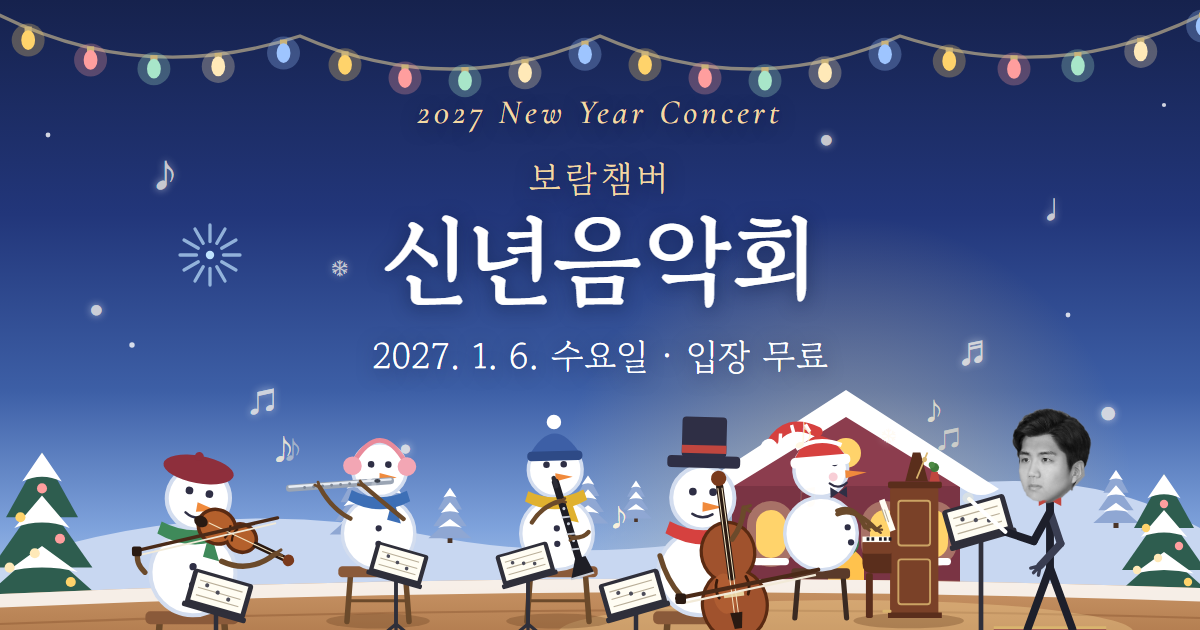
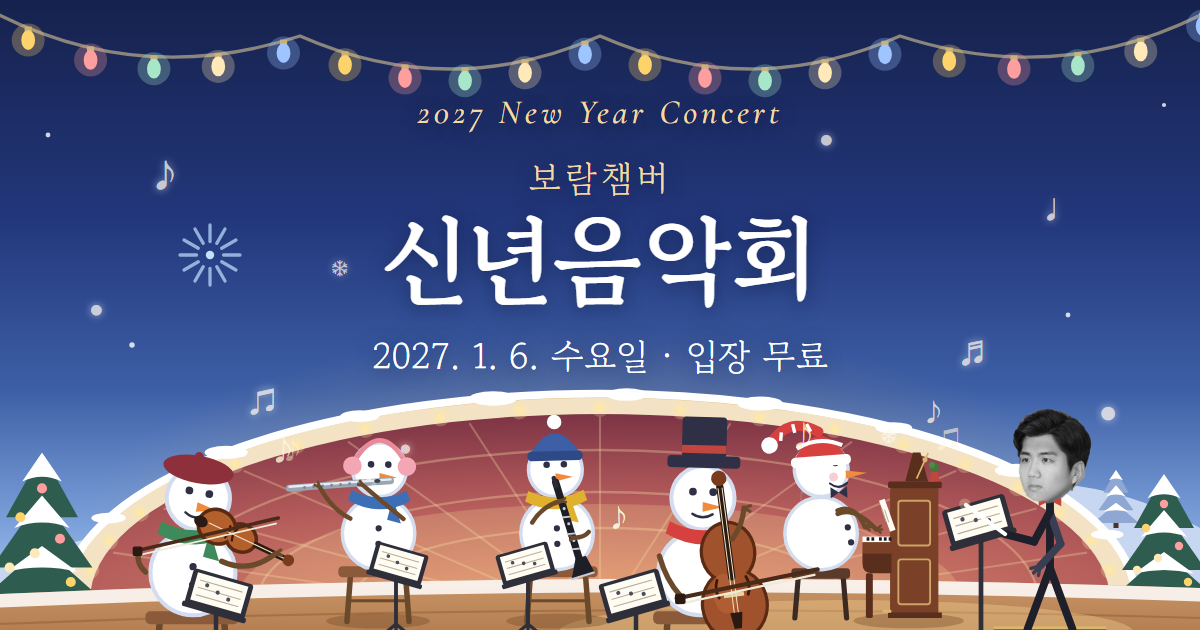
카톡 미리보기 그림 갱신 (공연장 쉘 배경)
og.png 다시 만들고 주소 번호를 ?v=8 로 올림

Changed region(s): [[0.1542, 0.4524, 0.9558, 0.9349], [0.0617, 0.754, 0.1542, 0.9349], [0.555, 0.9349, 0.5858, 0.9651]]

diff --git a/index.html b/index.html
@@ -10,7 +10,7 @@
 <meta property="og:title" content="보람챔버 신년음악회">
 <meta property="og:description" content="2027년 1월 6일(수) · 보람챔버오케스트라가 초대합니다.">
 <meta property="og:url" content="https://boramchamber.github.io/2027-new-year/">
-<meta property="og:image" content="https://boramchamber.github.io/2027-new-year/og.png?v=7">
+<meta property="og:image" content="https://boramchamber.github.io/2027-new-year/og.png?v=8">
 <meta property="og:image:width" content="1200">
 <meta property="og:image:height" content="630">
 <meta name="theme-color" content="#16224d">
